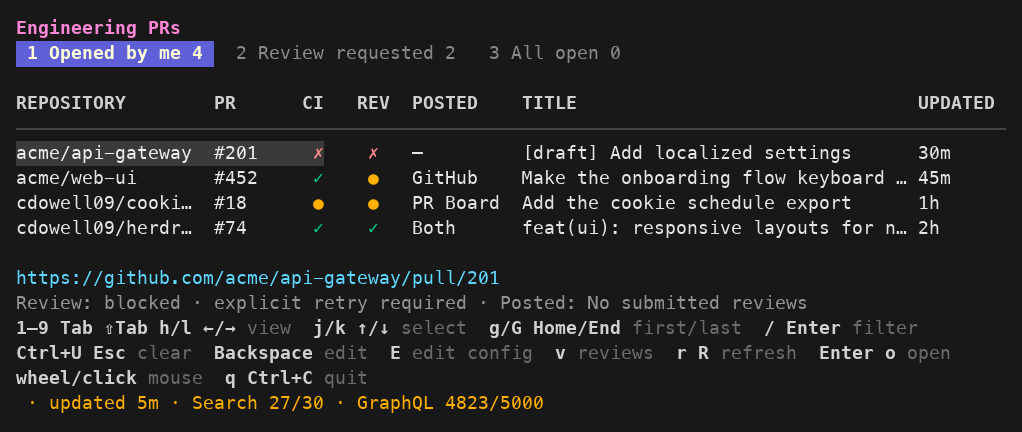
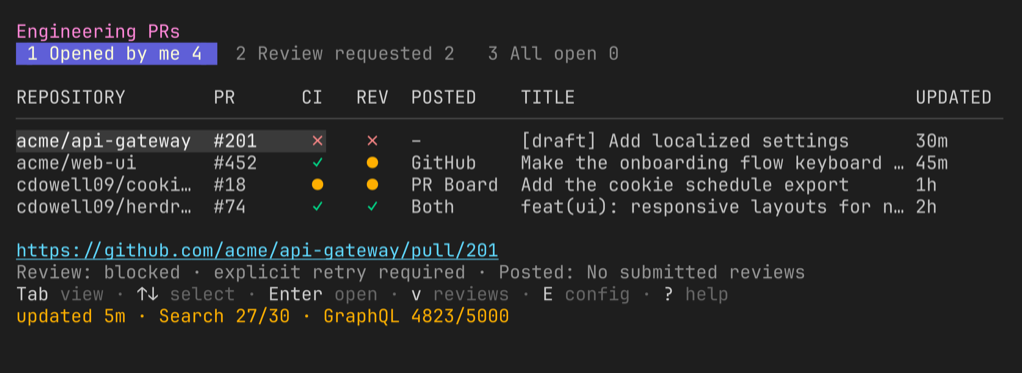
docs: trim README polish and refresh board screenshots (#143)
* chore: throwaway PR for a board preview

Adds one placeholder file so an open PR exists to look at in PR Board.
Close without merging.

Claude-Session: https://claude.ai/code/session_01EatH1XoXzVzmq5GnZB4EvT

* docs: trim README polish and refresh board screenshots

Keep the README at landing-page level: drop the setup-panel detail
sentences, the reviewer-row walkthrough, the Advanced-file location,
and the --version line. Those live in docs/.

Regenerate the README and layout screenshots from TestRenderDump on
the current UI, so they show the six-pair footer, the ? help entry,
and the clean footer meta line. Remove two images nothing references.

Claude-Session: https://claude.ai/code/session_01EatH1XoXzVzmq5GnZB4EvT

diff --git a/README.md b/README.md
@@ -99,15 +99,9 @@ See [agent compatibility](docs/agent-compatibility.md) for native version requir
 
 Select a PR and press `v`.
 The panel opens repository setup when the repository has no saved settings.
-The panel groups settings under Reviews, GitHub permissions, Automatic posting, Global views, and Advanced.
 Choose a reviewer and save the settings.
-The setup header shows that manual reviews are ready when automatic launches are off.
 
-The reviewer row shows the selection, its position, and the total.
-`Reviewer: claude (3/13)` selects the third reviewer of 13.
-Press Right or Space to select the next reviewer. Press Left to go back.
-Setup starts at the first available reviewer and keeps a saved selection.
-See [reviewer detection](docs/reviews.md#detect-installed-agent-clis) for the PATH rules and the install hint.
+Setup looks for installed agent CLIs and starts at the first one it finds.
 
 Press `n` in the review panel to run the review.
 Press `s` in the review panel to change settings later.
@@ -117,8 +111,7 @@ The specification comes from the PR body and linked closing issues.
 Missing required evidence blocks the review.
 Defaults require no custom instruction files.
 
-The setup panel puts **Prompt file** and **Skill file** last, under **Advanced**.
-Select those two rows to customize the review:
+Select **Prompt file** and **Skill file** during setup to customize the review:
 
 - A custom prompt replaces the default review criteria.
 - An optional skill adds compatible requirements.
@@ -156,8 +149,6 @@ On Windows, use `bin/herdr-pr-board.exe`.
 Snapshots include PRs, CI, submitted reviews, observation times, rates, and structured retrieval errors.
 Partial results return a nonzero status.
 See [JSON snapshots](docs/json-snapshots.md) for the versioned contract.
-
-Run `bin/herdr-pr-board --version` to print the plugin version and the build revision.
 
 Use the [headless monitor](docs/monitor.md) to share discovery observations without keeping a board open.
 
